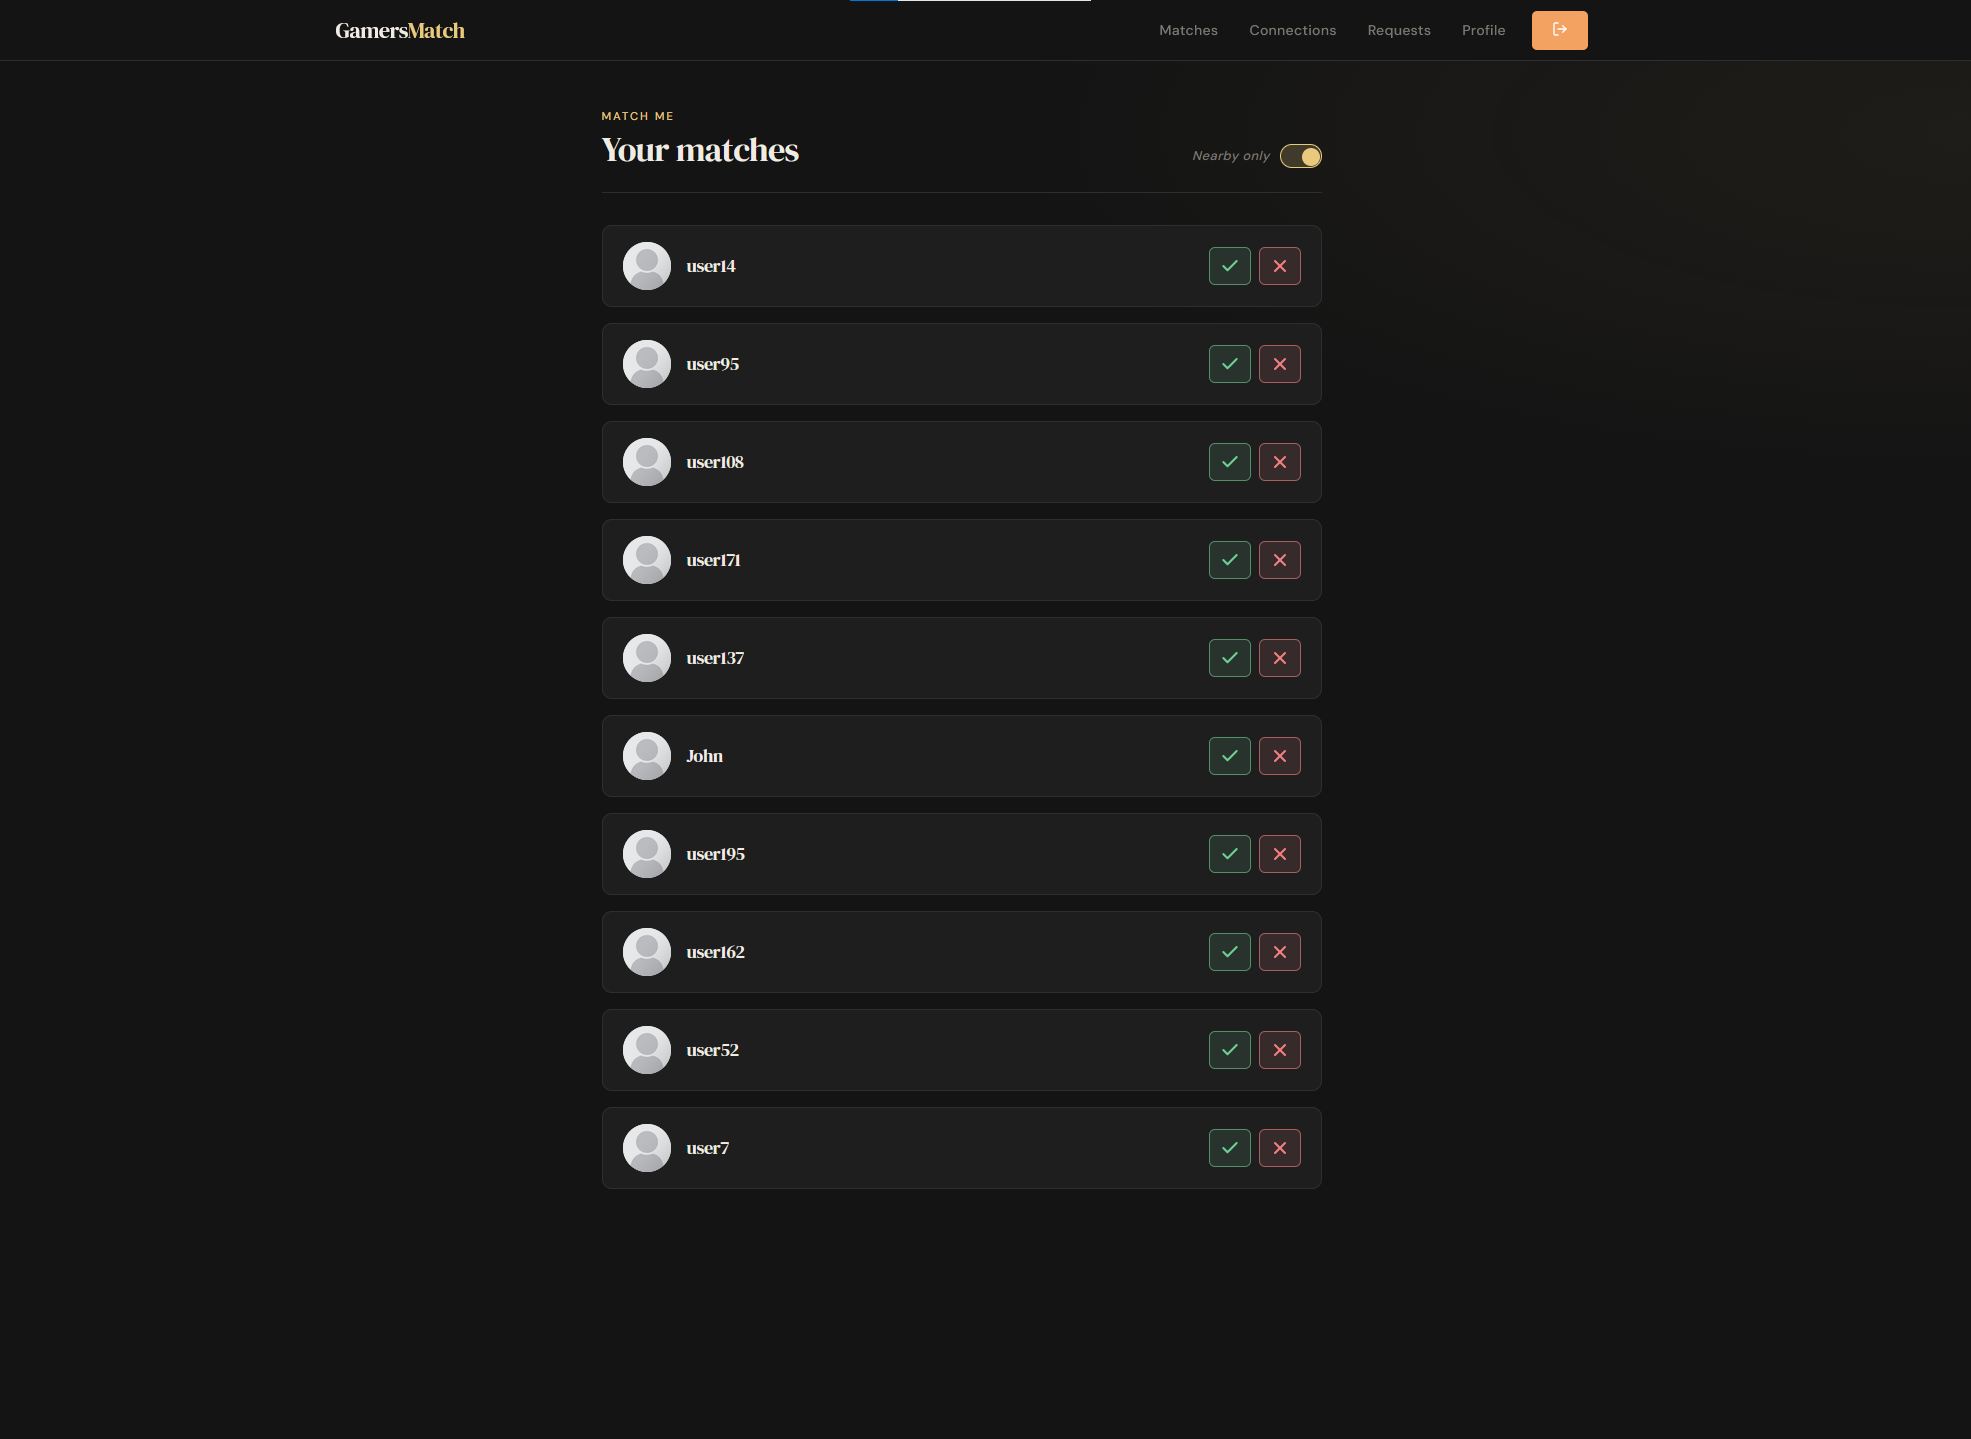
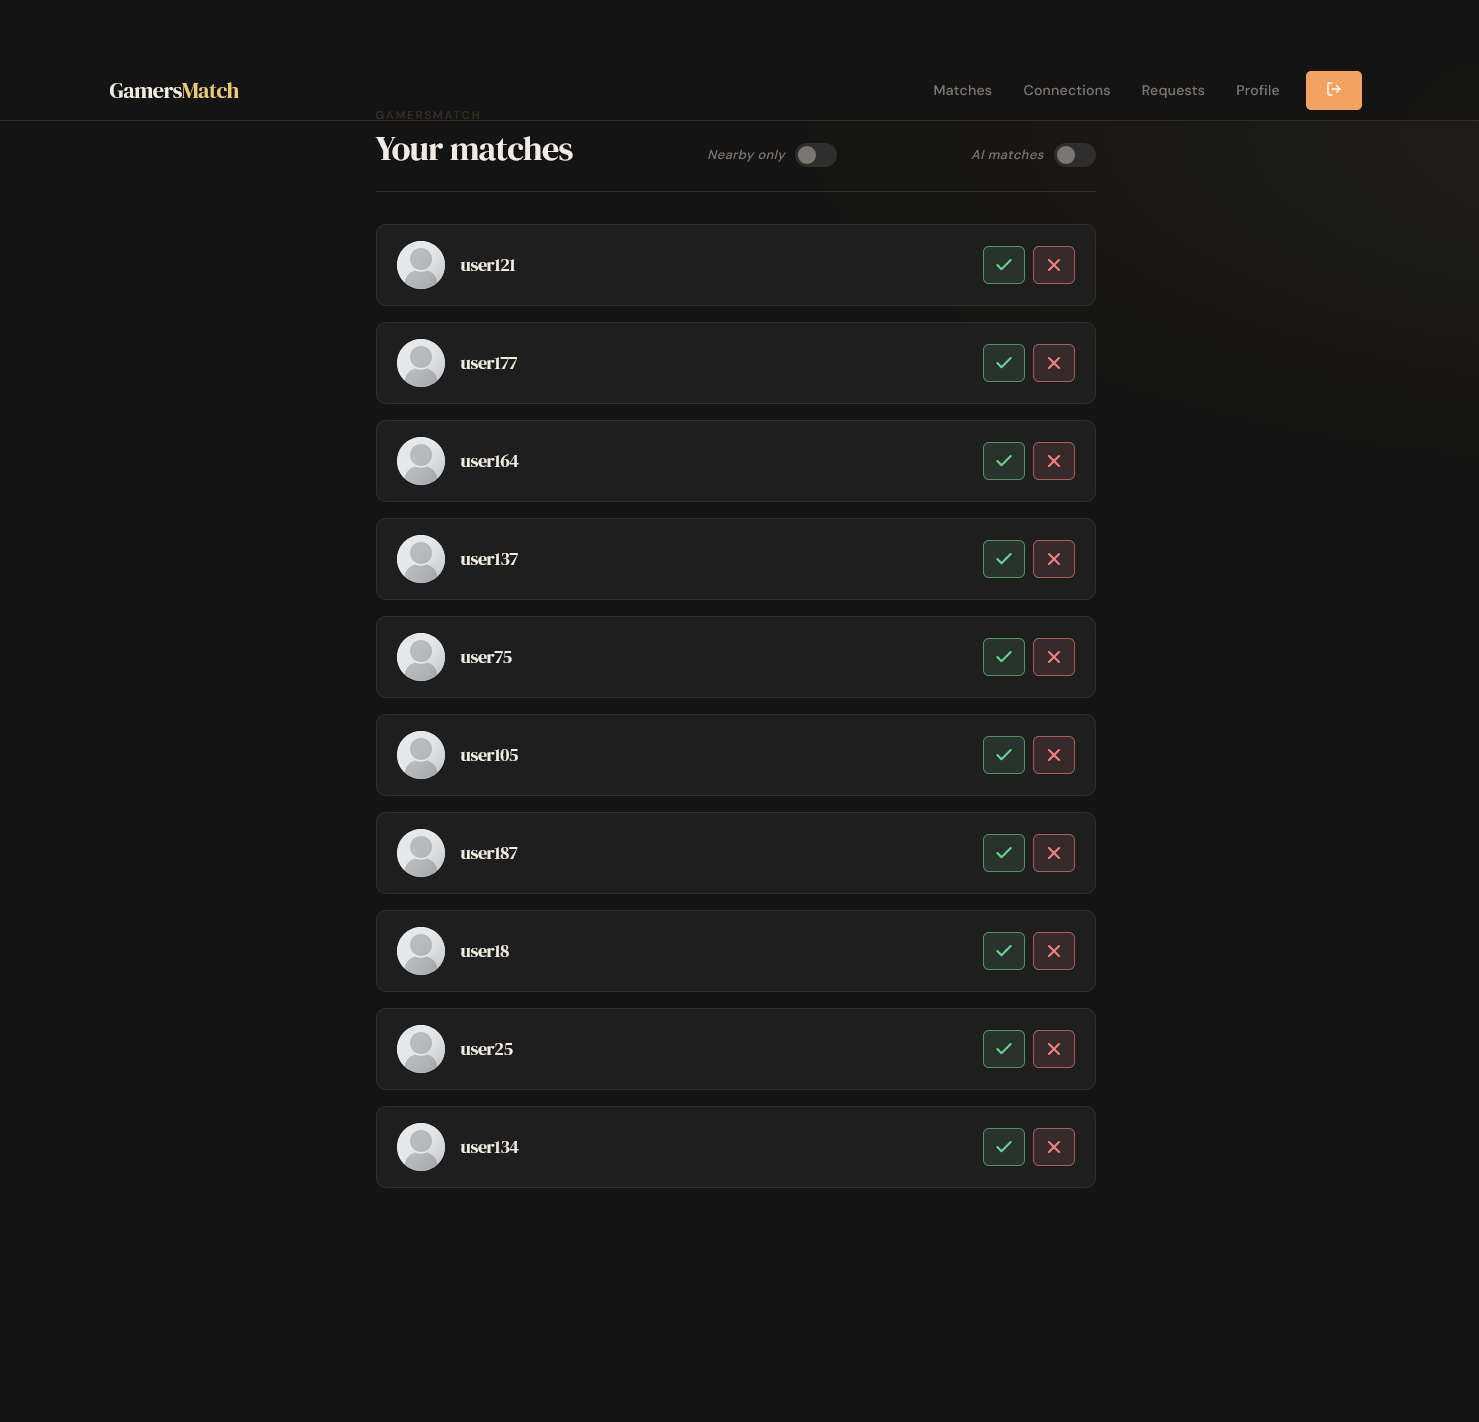
Updated README to reflect added features to Matching app (AI matchmaking)

diff --git a/README.md b/README.md
@@ -102,7 +102,7 @@ A full-stack e-commerce platform designed and implemented from the ground up, mo
 
 ## 🗺 Interest-Based Geospatial Matching Platform
 
-A full-stack recommendation system built with Go and React, connecting users through a custom weighted matching algorithm and geospatial proximity filtering. The platform combines strict access control, prioritized recommendations, and real-time communication.
+A full-stack social matching platform built with Go and React, connecting gamers through both a custom weighted recommendation algorithm and AI-powered semantic profile matching. The platform combines geospatial proximity filtering, strict access control, prioritized recommendations, and real-time communication.
 
 <details>
     <summary><strong>📸 Click to open a few preview images</strong></summary>
@@ -122,7 +122,8 @@ A full-stack recommendation system built with Go and React, connecting users thr
 
 * Backend: Go, GraphQL
 * Frontend: React (JavaScript)
-* Database: PostgreSQL with `cube` + `earthdistance` extensions
+* Database: PostgreSQL with `cube`, `earthdistance` and `pgvector`
+* AI Matching: Ollama embeddings + vector similarity search
 * Real-time: WebSockets (GraphQL subscriptions + chat channel)
 * Security: JWT, brcrypt
 * Containerization: Docker + Docker Compose
@@ -131,7 +132,8 @@ A full-stack recommendation system built with Go and React, connecting users thr
 **Highlights**
 
 - Hybrid API architecture (REST + GraphQL with subscriptions)
-- Custom recommendation engine using 5+ weighted profile attributes
+- Dual recommendation modes: rule-based matching algorithm plus AI-powered semantic recommendations
+- Profile embeddings generated from user bios and interests for smarter match discovery
 - Radius-based proximity filtering via PostgreSQL `earthdistance`
 - WebSocket-powered real-time chat with typing indicators and unread tracking
 - Connection-based profile visibility and strict authorization boundaries
